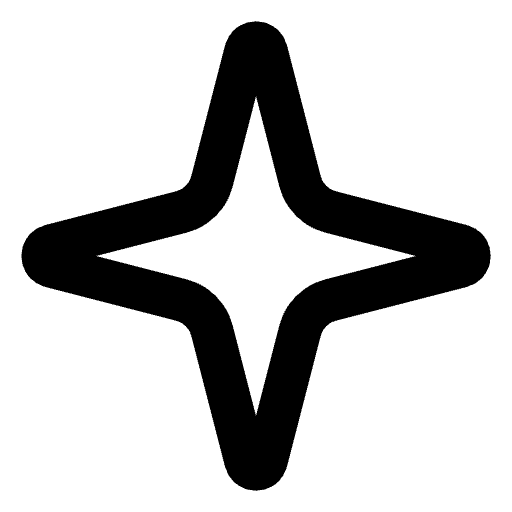
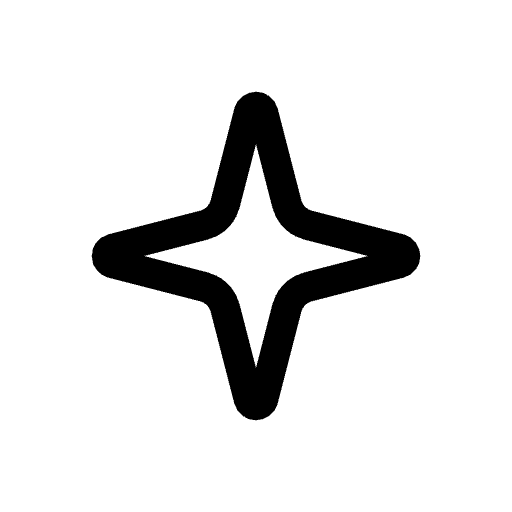
feat: contact timeline

Changed region(s): [[0.0312, 0.0312, 0.9688, 0.9688]]

diff --git a/app/manifest.ts b/app/manifest.ts
@@ -1,0 +1,27 @@
+import type { MetadataRoute } from 'next';
+
+export default function manifest(): MetadataRoute.Manifest {
+  return {
+    name: 'Portal',
+    short_name: 'Portal',
+    description: 'Streamline Your Business Operations',
+    start_url: '/dashboard',
+    display: 'standalone',
+    background_color: '#ffffff',
+    theme_color: '#000000',
+    icons: [
+      {
+        src: '/web-app-manifest-192x192.png',
+        sizes: '192x192',
+        type: 'image/png',
+        purpose: 'maskable',
+      },
+      {
+        src: '/web-app-manifest-512x512.png',
+        sizes: '512x512',
+        type: 'image/png',
+        purpose: 'maskable',
+      },
+    ],
+  };
+}

diff --git a/next.config.ts b/next.config.ts
@@ -12,9 +12,29 @@ const nextConfig: NextConfig = {
   redirects: async () => {
     return [
       {
+        source: '/dashboard/account',
+        destination: '/dashboard/account/settings',
+        permanent: false,
+      },
+      {
         source: '/dashboard/crm',
         destination: '/dashboard/crm/contacts',
-        permanent: true,
+        permanent: false,
+      },
+      {
+        source: '/dashboard/marketing',
+        destination: '/dashboard/marketing/campaigns',
+        permanent: false,
+      },
+      {
+        source: '/dashboard/personal',
+        destination: '/dashboard/personal/calendar',
+        permanent: false,
+      },
+      {
+        source: '/dashboard/resource',
+        destination: '/dashboard/resource/content',
+        permanent: false,
       },
     ];
   },

diff --git a/components/root/layout.tsx b/components/root/layout.tsx
@@ -20,6 +20,9 @@ export default async function RootLayout(props: Props) {
   return (
     <html lang={locale} suppressHydrationWarning>
       <head>
+        <meta name='apple-mobile-web-app-title' content='Portal' />
+        <meta name='theme-color' media='(prefers-color-scheme: light)' content='white' />
+        <meta name='theme-color' media='(prefers-color-scheme: dark)' content='black' />
         {/* <Script src='https://unpkg.com/react-scan/dist/auto.global.js' async /> */}
         <Script src='https://unpkg.com/react-scan/dist/install-hook.global.js' strategy='beforeInteractive' />
       </head>